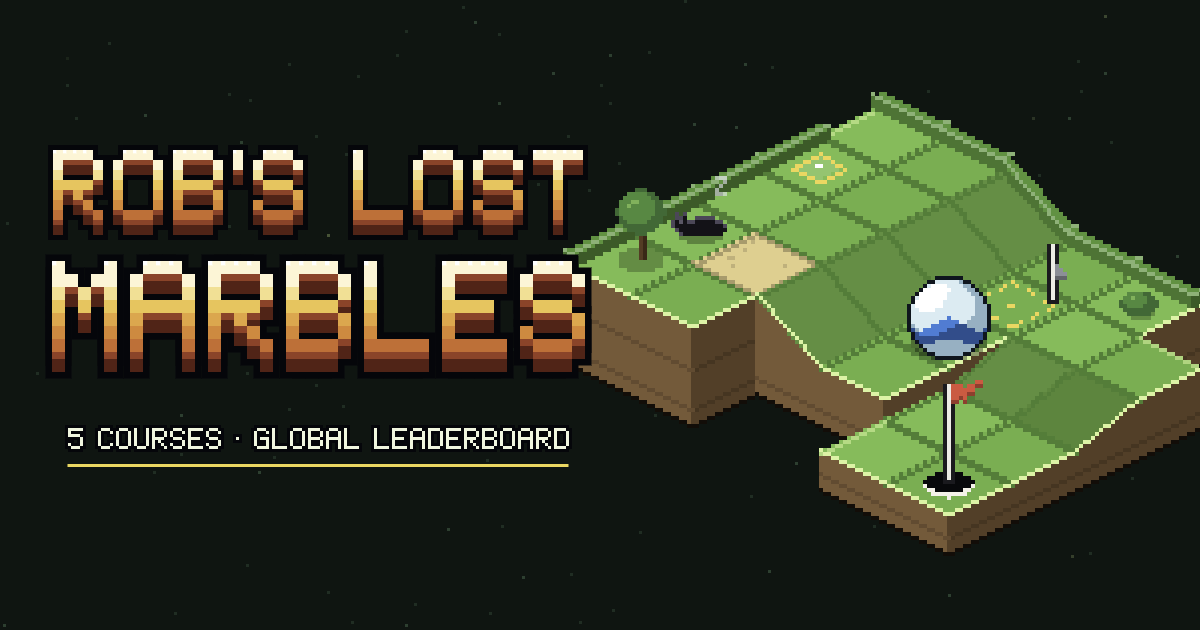
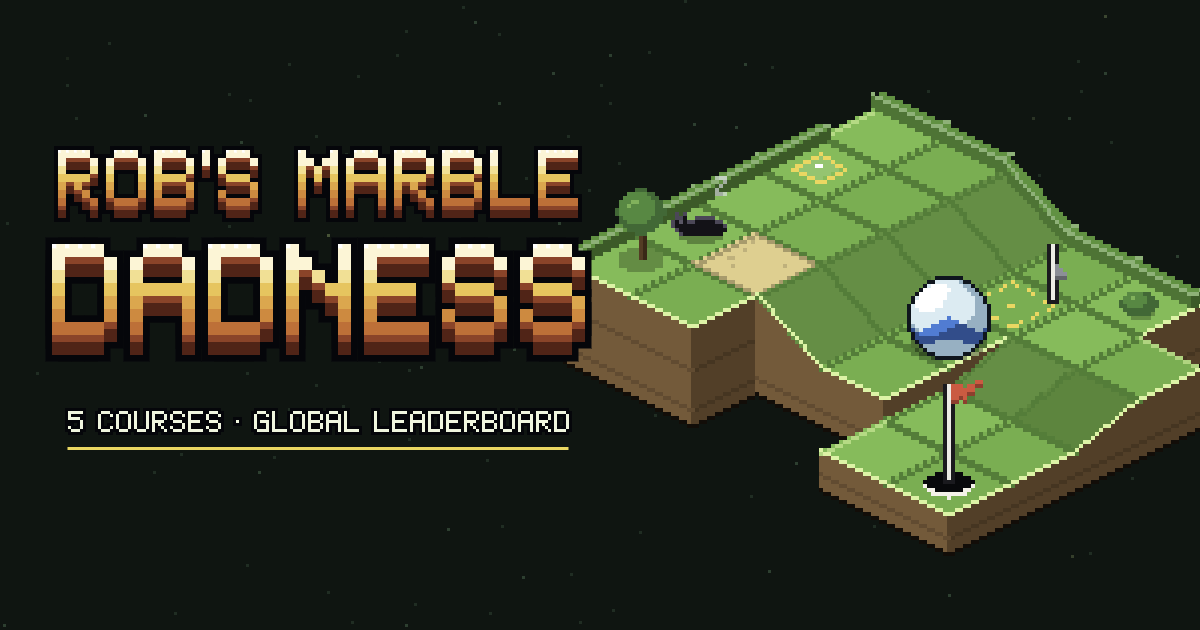
Marbles: rename to ROB'S MARBLE DADNESS
Claude-Session: https://claude.ai/code/session_01CAqsDdX5EmWBvwPMbQ1d3x

Changed region(s): [[0.0308, 0.2111, 0.4933, 0.6032], [0.0617, 0.6333, 0.4933, 0.754]]

diff --git a/public/marbles/index.html b/public/marbles/index.html
@@ -8,19 +8,19 @@
 <meta name="apple-mobile-web-app-status-bar-style" content="black">
 <meta name="theme-color" content="#0B0B12">
 <link rel="icon" href="data:,">
-<title>ROB'S LOST MARBLES</title>
+<title>ROB'S MARBLE DADNESS</title>
 <meta name="description" content="Rob has lost his marbles. Roll one from the tee to the cup across five little courses: a putting green, David's kitchen, Wharton, a stock chart and a links in a gale. Race the clock, collect his wallet, beat your friends on the global leaderboard.">
-<meta property="og:title" content="ROB'S LOST MARBLES">
+<meta property="og:title" content="ROB'S MARBLE DADNESS">
 <meta property="og:description" content="Roll a marble from the tee to the cup across five little courses. Race the clock, beat your friends on the global leaderboard.">
-<meta property="og:image" content="https://wesleybard.com/marbles/share/og.png">
+<meta property="og:image" content="https://wesleybard.com/marbles/share/og.png?v=2">
 <meta property="og:image:width" content="1200">
 <meta property="og:image:height" content="630">
 <meta property="og:url" content="https://wesleybard.com/marbles/">
 <meta property="og:type" content="website">
 <meta name="twitter:card" content="summary_large_image">
-<meta name="twitter:title" content="ROB'S LOST MARBLES">
+<meta name="twitter:title" content="ROB'S MARBLE DADNESS">
 <meta name="twitter:description" content="Roll a marble from the tee to the cup across five little courses. Race the clock, beat your friends on the global leaderboard.">
-<meta name="twitter:image" content="https://wesleybard.com/marbles/share/og.png">
+<meta name="twitter:image" content="https://wesleybard.com/marbles/share/og.png?v=2">
 <meta name="robots" content="noindex, nofollow">
 <style>
 html, body { margin: 0; padding: 0; background: #0B0B12; position: fixed; inset: 0; height: 100dvh; overflow: hidden; overscroll-behavior: none; touch-action: none; user-select: none; -webkit-user-select: none; -webkit-touch-callout: none; -webkit-tap-highlight-color: transparent; }
@@ -1529,11 +1529,11 @@ function logoLine(ctx, str, x, y, px, depth) {
   return w;
 }
 function drawLogo(ctx, cx, top, maxW) {
-  var px2 = Math.max(2, Math.floor(maxW / 41)), px1 = Math.max(2, Math.floor(maxW / 53));
+  var px2 = Math.max(2, Math.floor(maxW / 41)), px1 = Math.max(2, Math.floor(maxW / 63));
   px1 = Math.min(px1, px2);
-  logoLine(ctx, "ROB'S LOST", cx, top, px1, Math.round(px1 * 1.5));
+  logoLine(ctx, "ROB'S MARBLE", cx, top, px1, Math.round(px1 * 1.5));
   var y2 = top + px1 * 7 + Math.round(px1 * 1.5) + px2 * 2;
-  logoLine(ctx, 'MARBLES', cx, y2, px2, Math.round(px2 * 1.5));
+  logoLine(ctx, 'DADNESS', cx, y2, px2, Math.round(px2 * 1.5));
   return y2 + px2 * 7 + Math.round(px2 * 1.5);
 }
 function titlePath(t) {      /* the title marble rolls a slow loop round the mini green */
@@ -3310,7 +3310,7 @@ function openName(after) {
 /* ---------- share ---------- */
 function shareRun(res) {
   const L = LEVELS[res.li];
-  const txt = "ROB'S LOST MARBLES · " + L.name + ' in ' + fmt(res.ms) + ' · beat it: https://wesleybard.com/marbles';
+  const txt = "ROB'S MARBLE DADNESS · " + L.name + ' in ' + fmt(res.ms) + ' · beat it: https://wesleybard.com/marbles';
   const fallback = () => { try { navigator.clipboard.writeText(txt).then(() => toast('COPIED. PASTE IT IN THE CHAT.'), () => toast('COULD NOT COPY')); } catch (e) { toast('COULD NOT COPY'); } };
   try { if (typeof navigator.share === 'function') { navigator.share({ text: txt }).catch((e) => { if (!e || e.name !== 'AbortError') fallback(); }); return; } } catch (e) { }
   fallback();
@@ -3394,8 +3394,8 @@ function drawTitle() {
   if (f) { try { f(ctx, land ? V.W * 0.52 : V.W, V.H, G.t); drawn = true; } catch (e) { console.error(e); artBroken = true; } }
   if (!drawn) {
     const cx = land ? A.x + A.w * 0.27 : A.x + A.w / 2, top = land ? A.y + A.h * 0.22 : A.y + 24;
-    const px = Math.min(fitPx('MARBLES', (land ? A.w * 0.48 : A.w) - 10, V.px * 3.5), V.px * 4);
-    text("ROB'S", cx, top, px * 0.6, ui.ink, 'c'); text('LOST', cx, top + 9 * px * 0.6, px, ui.accent, 'c'); text('MARBLES', cx, top + 9 * px * 0.6 + 9 * px, px, ui.ink, 'c');
+    const px = Math.min(fitPx('DADNESS', (land ? A.w * 0.48 : A.w) - 10, V.px * 3.5), V.px * 4);
+    text("ROB'S", cx, top, px * 0.6, ui.ink, 'c'); text('MARBLE', cx, top + 9 * px * 0.6, px, ui.accent, 'c'); text('DADNESS', cx, top + 9 * px * 0.6 + 9 * px, px, ui.ink, 'c');
     marbleIcon(SAVE.skin, cx, top + 9 * px * 0.6 + 18 * px + 18, V.px * 1.6, G.t * 2);
   }
   // buttons

diff --git a/CLAUDE.md b/CLAUDE.md
@@ -49,7 +49,7 @@ Smoke-test with `npm test` and `npm run health:add -- --dry-run < /dev/null`.
 - **`/fivepointtwo` is C SQUADBREAKER '99**, a party game for Wes's friends (12 Nov 2026). It is unlinked: no nav link and not in the sitemap. It is a single self-contained `public/fivepointtwo/index.html` with `noindex`, plus its link-preview card `public/fivepointtwo/share/og.png`. Like /videogames, it stays crawlable in robots.txt so chat apps that obey robots.txt still show the preview card. The source and build live in the separate `~/Vibecoding/fivepointtwo_tetris` project (`bash build.sh`), so update it by copying a fresh build over the file, not by editing it here. It keeps its own look and is not on the design system.
 - **`/welldone` is WELL DONE! — The Special at David's**, a maze game roasting Wes's friend Rob (14 Nov 2026). Same arrangement as `/fivepointtwo`: unlinked, not in the sitemap, a single self-contained `public/welldone/index.html` with `noindex`, plus its link-preview card `public/welldone/share/og.png`, and left crawlable in robots.txt so chat previews work. To update it, copy a fresh build from `~/Vibecoding/fivepointtwo_tetris/davids` (`sh build.sh`).
 - **`/walletroyale` is ROB'S WALLET ROYALE**, a quick endless score-chaser about Rob's overstuffed wallet (14 Nov 2026). Same arrangement as `/welldone` and `/fivepointtwo`: unlinked, not in the sitemap, a single self-contained `public/walletroyale/index.html` with `noindex`, plus `public/walletroyale/share/og.png`. It is the one page with a backend: its global leaderboard calls a Cloudflare Worker, `walletroyale-scores` (KV-backed; source in `~/Vibecoding/fivepointtwo_tetris/wallet/scores-worker`, deployed with wrangler from Wes's Cloudflare account). To update the game, copy a fresh build from `~/Vibecoding/fivepointtwo_tetris/wallet` (`sh build.sh`).
-- **`/marbles` is ROB'S LOST MARBLES**, an isometric marble-rolling time-trial with five courses (16 Nov 2026). Same arrangement as `/walletroyale`: unlinked, not in the sitemap, a single self-contained `public/marbles/index.html` with `noindex`, plus `public/marbles/share/og.png`. Its per-course global leaderboard calls a second Cloudflare Worker, `marbles-scores` (KV-backed; source in `~/Vibecoding/fivepointtwo_tetris/marbles/scores-worker`). To update the game, copy a fresh build from `~/Vibecoding/fivepointtwo_tetris/marbles` (`sh build.sh`).
+- **`/marbles` is ROB'S MARBLE DADNESS**, an isometric marble-rolling time-trial with five courses (16 Nov 2026). Same arrangement as `/walletroyale`: unlinked, not in the sitemap, a single self-contained `public/marbles/index.html` with `noindex`, plus `public/marbles/share/og.png`. Its per-course global leaderboard calls a second Cloudflare Worker, `marbles-scores` (KV-backed; source in `~/Vibecoding/fivepointtwo_tetris/marbles/scores-worker`). To update the game, copy a fresh build from `~/Vibecoding/fivepointtwo_tetris/marbles` (`sh build.sh`).
 - **Phones can pinch-zoom:** the viewport sets no maximum scale and no zoom lock (WCAG 1.4.4); `__tests__/viewport.test.ts` keeps it that way.
 
 ## /health — weekly tracker update
